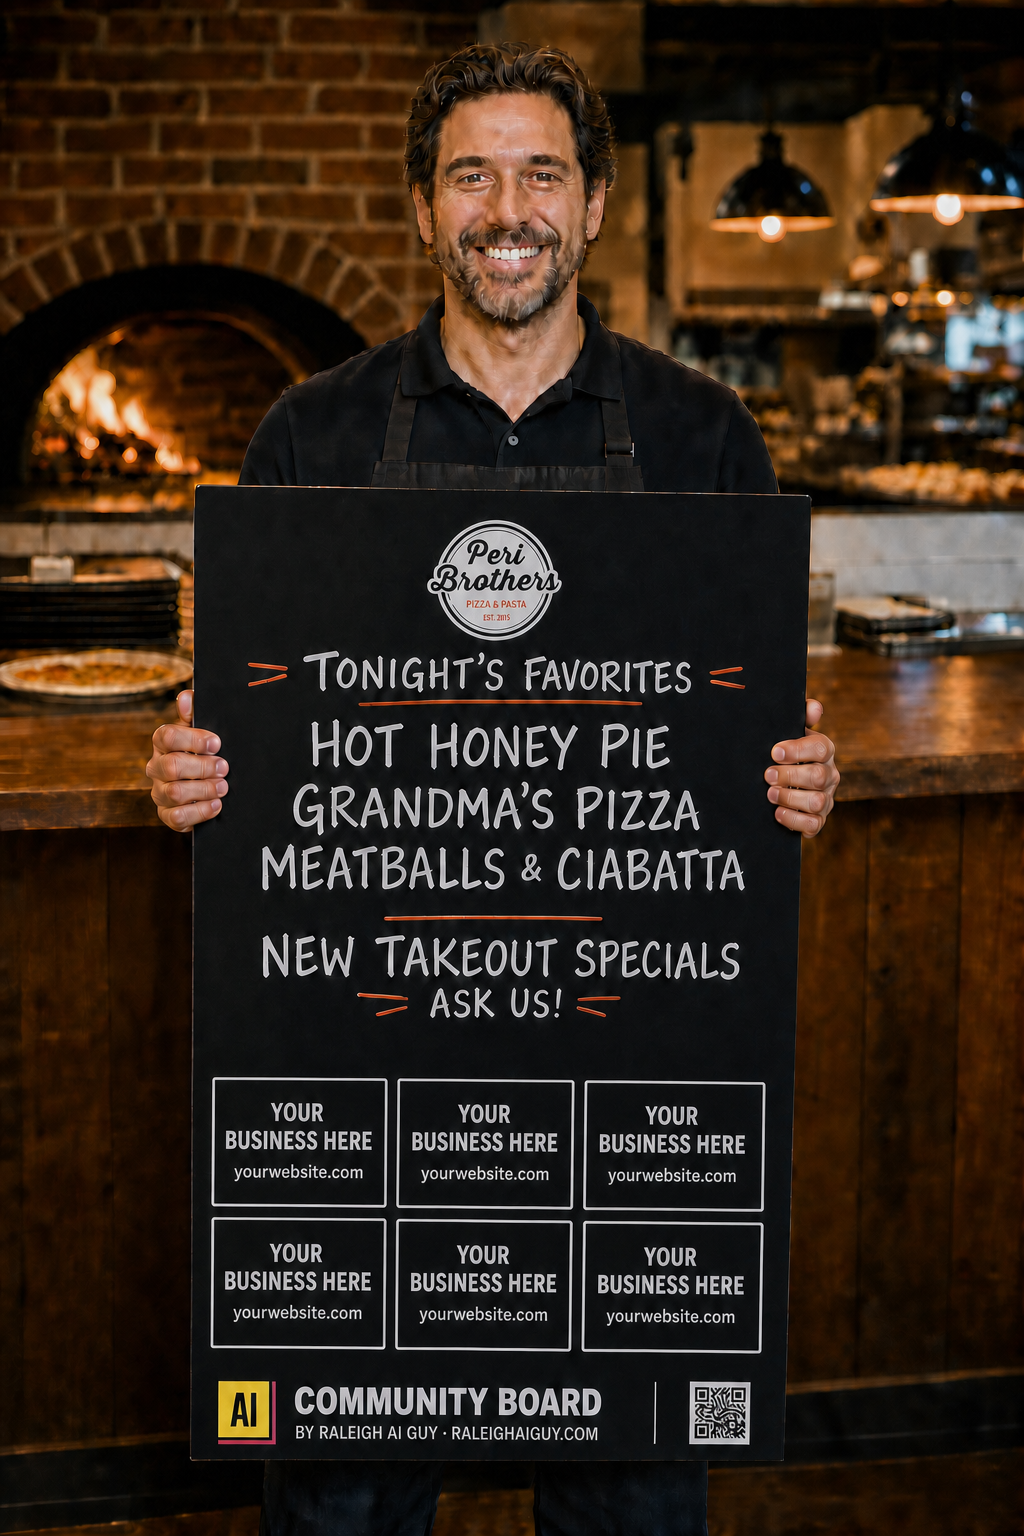
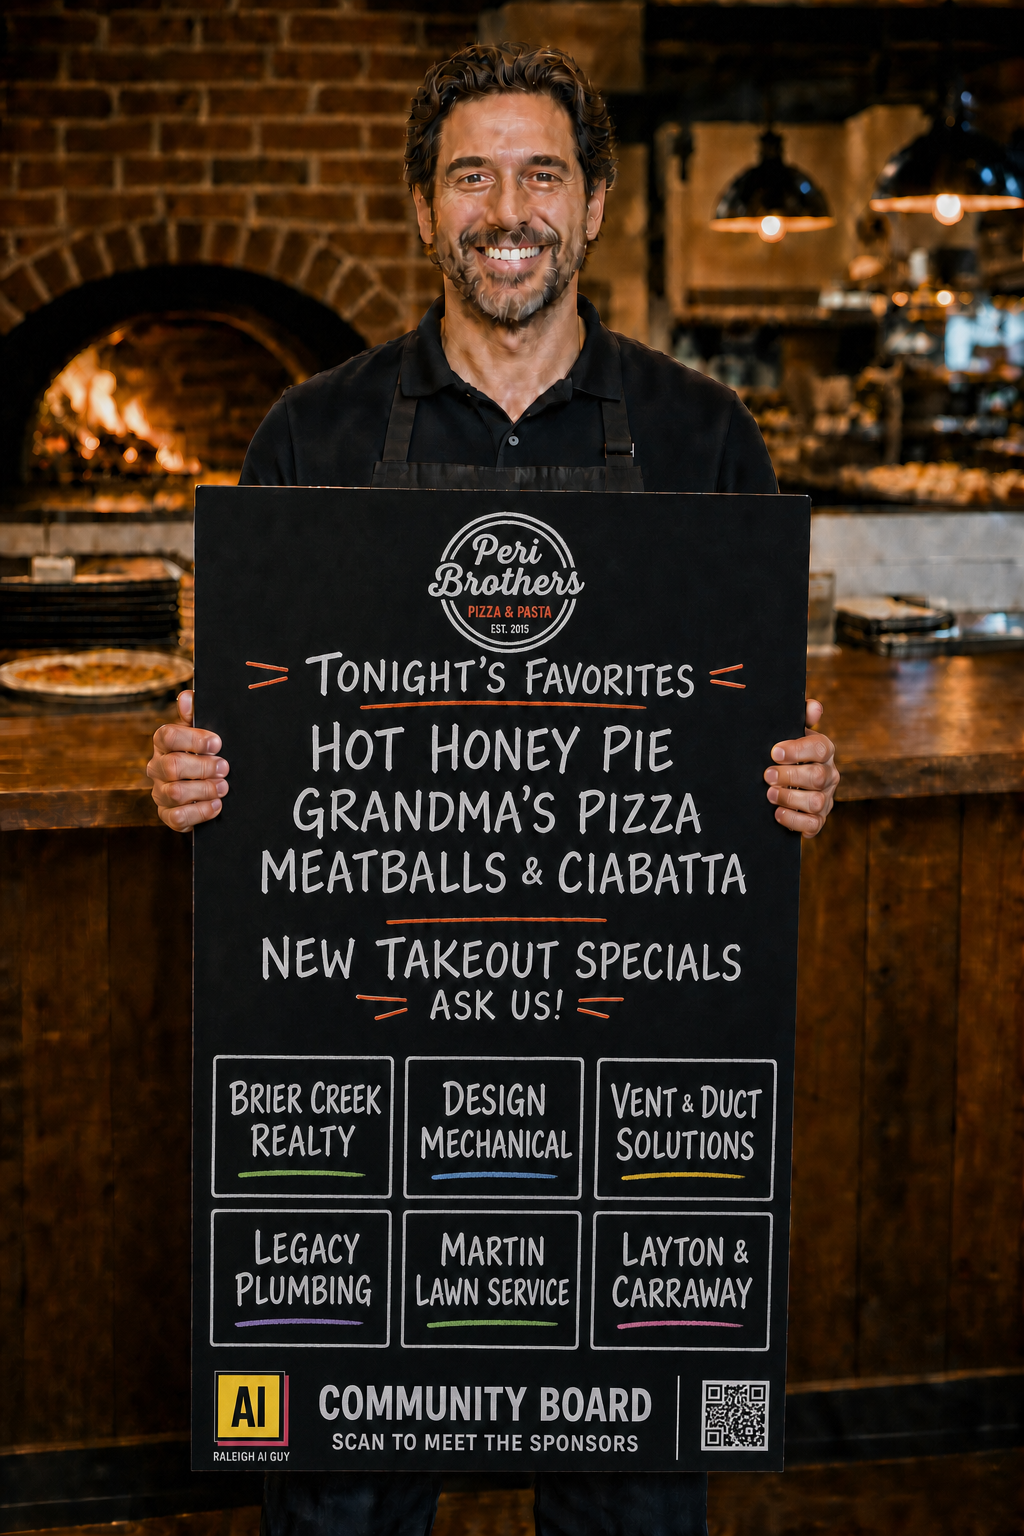
Finalize Community Boards launch page

Changed region(s): [[0.1875, 0.3125, 0.7812, 0.9688], [0.25, 0.4375, 0.2812, 0.4688], [0.0625, 0.25, 0.0938, 0.2812]]

diff --git a/src/data/communityBoardProspects.ts b/src/data/communityBoardProspects.ts
@@ -1,8 +1,9 @@
 import type { ImageMetadata } from 'astro';
 
 import periBrothers from '@/images/community-boards/venue-concepts/peri-brothers-specials-community-v2.png';
-import twoRoosters from '@/images/community-boards/venue-concepts/two-roosters-specials-final.png';
-import noraCafe from '@/images/community-boards/venue-concepts/nora-cafe-specials-final.png';
+import twoRoosters from '@/images/community-boards/venue-concepts/two-roosters-specials-community-v2.png';
+import noraCafe from '@/images/community-boards/venue-concepts/nora-cafe-specials-community-v2.png';
+import solaCoffee from '@/images/community-boards/venue-concepts/sola-coffee-community-v2.png';
 import fit4Life from '@/images/community-boards/venue-concepts/fit4life-specials.png';
 import bombayCurry from '@/images/community-boards/venue-concepts/bombay-curry-specials-final.png';
 import gonzaTacos from '@/images/community-boards/venue-concepts/gonza-tacos-specials.png';
@@ -40,7 +41,8 @@ const pitchProspect = (
   venueType: string,
   fit: string,
   uses: string[],
-): CommunityBoardProspect => ({ slug, name, area, venueType, image: prospectImage(slug), fit, uses });
+  image?: ImageMetadata,
+): CommunityBoardProspect => ({ slug, name, area, venueType, image: image ?? prospectImage(slug), fit, uses });
 
 export const communityBoardProspects: CommunityBoardProspect[] = [
   { slug: 'peri-brothers', name: 'Peri Brothers Pizza & Pasta', area: 'North Raleigh', venueType: 'Neighborhood restaurant', image: periBrothers, fit: 'A reusable board gives regulars an immediate reason to notice weekly pizzas, dinner features, and takeout offers.', uses: ['Weekly pizza and dinner features', 'Takeout and catering reminders', 'Community events and announcements'] },
@@ -54,7 +56,7 @@ export const communityBoardProspects: CommunityBoardProspect[] = [
   { slug: 'epic-auto-center', name: 'EPIC Auto Center', area: 'North Raleigh', venueType: 'Automotive service center', image: epicAuto, fit: 'Customers waiting for service are a valuable, attentive audience, while the board also communicates today’s shop services.', uses: ['Inspection and service reminders', 'Seasonal maintenance guidance', 'Waiting-area information'] },
   { slug: 'manchesters-grill', name: 'Manchester’s Grill', area: 'Leesville / North Raleigh', venueType: 'Neighborhood grill', image: manchesters, fit: 'Weekly dinner, burger, and soup features give regular customers fresh information every time they visit.', uses: ['Weekly dinner specials', 'Burger and soup features', 'Family and community announcements'] },
   { slug: 'ruckus-leesville', name: 'Ruckus Pizza, Pasta & Spirits — Leesville', area: 'Leesville / North Raleigh', venueType: 'Pizza restaurant and sports bar', image: ruckusLeesville, fit: 'A high-energy neighborhood restaurant can use the board for food favorites, game-day programming, and rotating events.', uses: ['Food and drink favorites', 'Game-day features', 'Events, parties, and catering'] },
-  pitchProspect('sola-coffee-cafe', 'Sola Coffee Café', 'North Raleigh · 27615', 'Neighborhood coffeehouse', 'Repeat morning visits, rotating seasonal drinks, and community programming make Sola a natural fit for an always-current board.', ['Seasonal coffee and breakfast', 'Mini-donut features', 'Live music and community events']),
+  pitchProspect('sola-coffee-cafe', 'Sola Coffee Café', 'North Raleigh · 27615', 'Neighborhood coffeehouse', 'Repeat morning visits, rotating seasonal drinks, and community programming make Sola a natural fit for an always-current board.', ['Seasonal coffee and breakfast', 'Mini-donut features', 'Live music and community events'], solaCoffee),
   pitchProspect('sassool', 'Sassool', 'North Raleigh · 27615', 'Family-owned Mediterranean café', 'Counter-service traffic and a broad menu give Sassool useful daily content while guests have time to notice local community partners.', ['Daily café features', 'Family meals and takeout', 'Catering and community updates']),
   pitchProspect('winstons-grille', 'Winston’s Grille', 'North Raleigh · 27609', 'Locally owned American grille', 'A longstanding neighborhood restaurant can keep lunch, dinner, and dessert features visible to a loyal repeat audience.', ['Soup and lunch features', 'Dinner and prime-rib features', 'Events and seasonal menus']),
   pitchProspect('pipers-tavern', 'Piper’s Tavern', 'North Raleigh · 27615', 'Neighborhood tavern', 'Regulars, sports, and weekly programming create repeated exposure and a constant reason to refresh the writing area.', ['Daily food features', 'Draft and happy-hour notes', 'Trivia and game-day events']),

diff --git a/src/data/communityBoardLocations.ts b/src/data/communityBoardLocations.ts
@@ -1,0 +1,56 @@
+import type { ImageMetadata } from 'astro';
+import demoBoard from '@/images/community-boards/board-restaurant-hero-community-v2.png';
+
+export interface CommunityBoardPartner {
+  name: string;
+  website: string;
+  href?: string;
+}
+
+export interface CommunityBoardLocation {
+  slug: string;
+  status: 'demo' | 'live';
+  venueName: string;
+  venueType: string;
+  area: string;
+  description: string;
+  image: ImageMetadata;
+  venueWebsite?: string;
+  directionsUrl?: string;
+  artist: {
+    name: string;
+    href?: string;
+  };
+  partners: CommunityBoardPartner[];
+  metrics: {
+    estimatedVenueVisits: number;
+    socialShares: number;
+    reportedSocialReach: number;
+    visits: number;
+    visitors: number;
+    partnerTaps: number;
+    venueActions: number;
+  };
+}
+
+export const communityBoardLocations: CommunityBoardLocation[] = [
+  {
+    slug: 'sample-board',
+    status: 'demo',
+    venueName: 'Your Neighborhood Board',
+    venueType: 'Interactive location-page preview',
+    area: 'Raleigh, North Carolina',
+    description: 'This is the mobile page a guest reaches after scanning a board. A live location page features the venue, its current community partners, measurable actions, and the local artist behind the lettering.',
+    image: demoBoard,
+    artist: { name: 'Your Raleigh chalk artist' },
+    partners: [
+      { name: 'Brier Creek Realty', website: 'briercreekrealty.com', href: 'https://www.briercreekrealty.com/' },
+      { name: 'Design Mechanical', website: 'design-mechanical.com', href: 'https://www.design-mechanical.com/' },
+      { name: 'Vent & Duct Solutions', website: 'ventandductsolutions.com', href: 'https://ventandductsolutions.com/' },
+      { name: 'Legacy Plumbing', website: 'legacyplumbingnc.com', href: 'https://www.legacyplumbingnc.com/' },
+      { name: 'Martin Lawn Service', website: '919-621-9354', href: 'tel:+19196219354' },
+      { name: 'Layton & Carraway', website: 'laytoncarraway.com', href: 'https://www.laytoncarraway.com/' },
+    ],
+    metrics: { estimatedVenueVisits: 2400, socialShares: 8, reportedSocialReach: 3100, visits: 127, visitors: 94, partnerTaps: 31, venueActions: 18 },
+  },
+];
